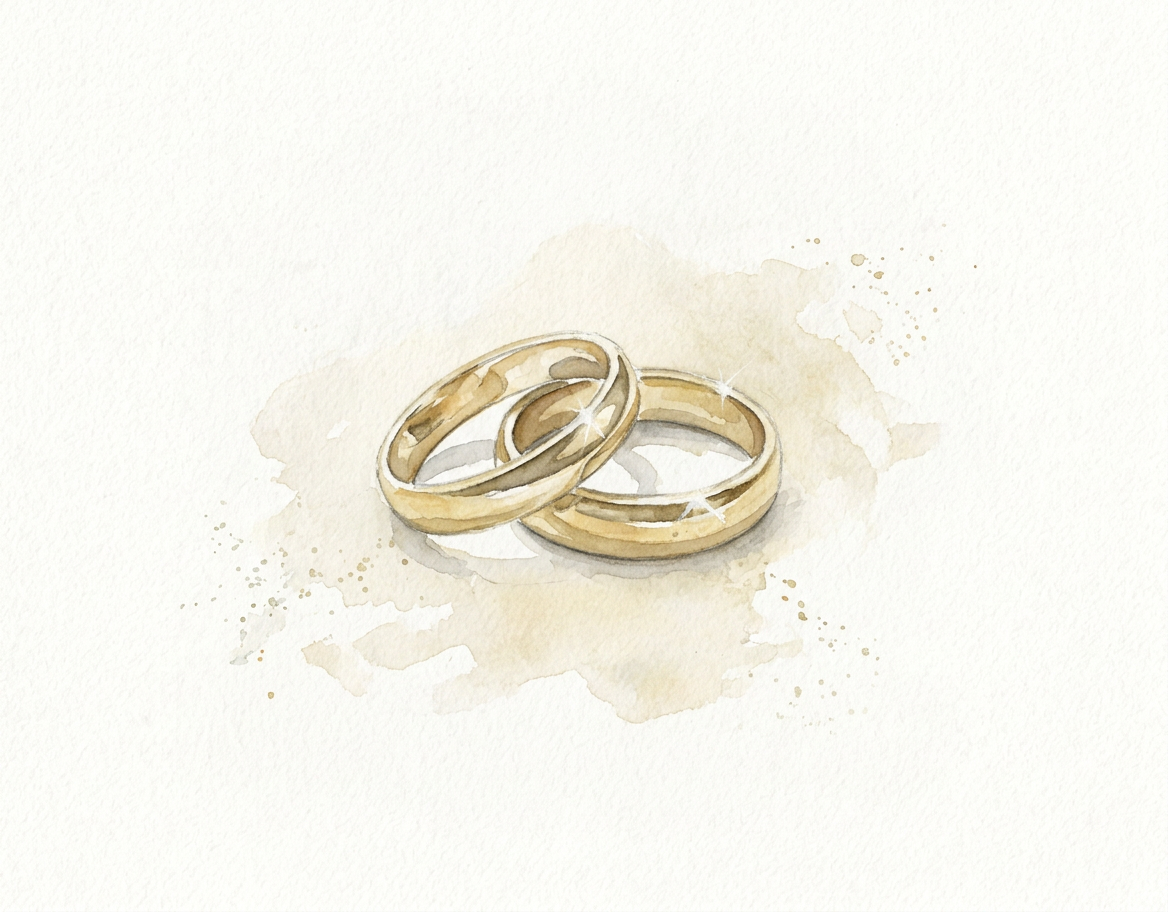
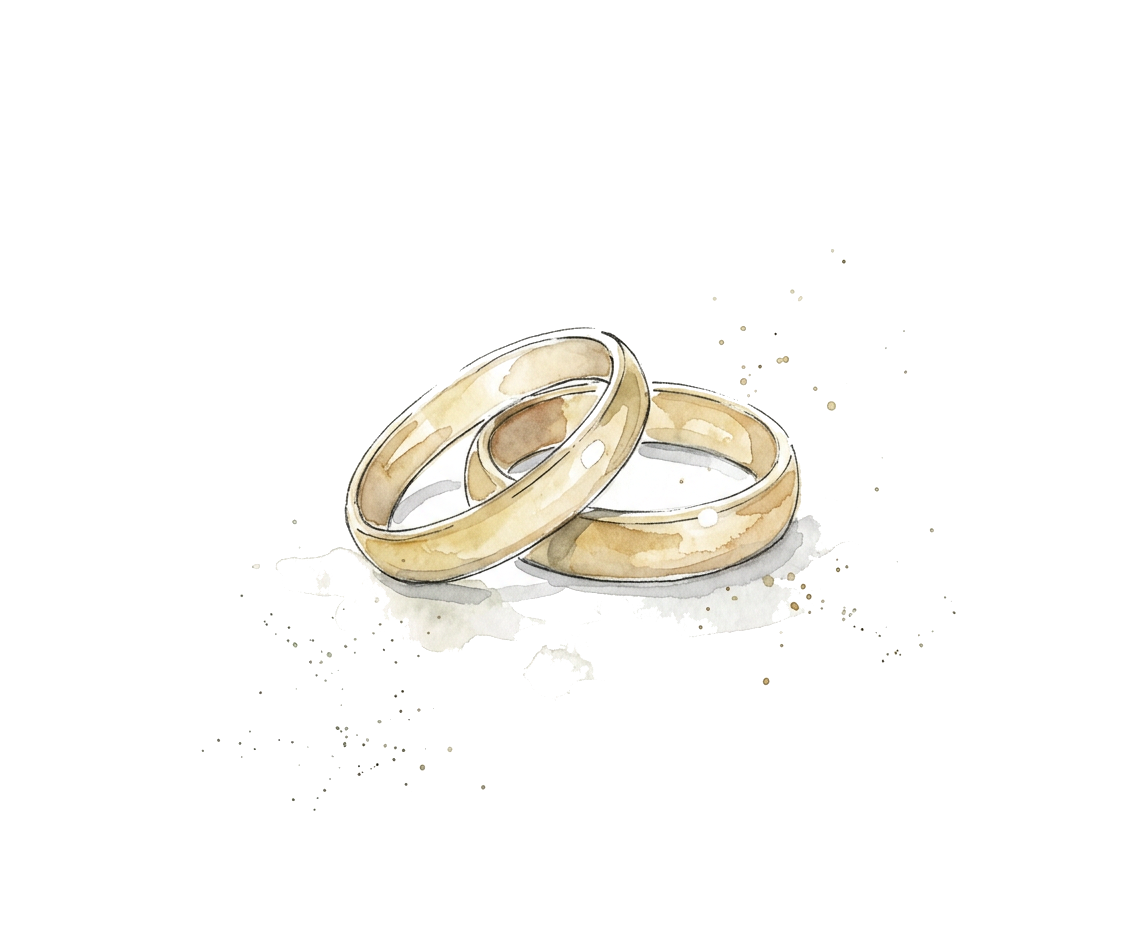
fix(Update):
Update itinerario

Changed region(s): [[0.1862, 0.2456, 0.8067, 0.7982]]

diff --git a/index.html b/index.html
@@ -209,12 +209,12 @@
       <span class="timeline__h">19:15</span>
       <!-- Iglesia o sillas -->
       <span class="timeline__t">Iglesia</span>
-      <img class="timeline__illo" src="img/programa/anillos.png" alt="" />
+      <img class="timeline__illo" src="img/programa/iglesia.png" alt="" />
     </li>
     <li>
       <span class="timeline__h">19:30</span>
       <span class="timeline__t">Ceremonia</span>
-      <img class="timeline__illo" src="img/programa/cocktail.png" alt="" />
+      <img class="timeline__illo" src="img/programa/anillos.png" alt="" />
     </li>
     <li>
       <span class="timeline__h">21:00</span>
@@ -224,17 +224,17 @@
     <li>
       <span class="timeline__h">23:00</span>
       <span class="timeline__t">Cena</span>
-      <img class="timeline__illo" src="img/programa/tarta.png" alt="" />
+      <img class="timeline__illo" src="img/programa/cena.png" alt="" />
     </li>
     <li>
       <span class="timeline__h">01:00</span>
       <span class="timeline__t">La fiesta</span>
-      <img class="timeline__illo" src="img/programa/baile.png" alt="" />
+      <img class="timeline__illo" src="img/programa/novios.png" alt="" />
     </li>
     <li>
       <span class="timeline__h">06:00</span>
       <span class="timeline__t">Recena</span>
-      <img class="timeline__illo" src="img/programa/vuelta.png" alt="" />
+      <img class="timeline__illo" src="img/programa/recena.png" alt="" />
     </li>
   </ul>
 </div>

diff --git a/styles.css b/styles.css
@@ -637,8 +637,10 @@ h1, h2, h3, h4 {
 .timeline__list li:nth-child(odd) .timeline__illo {
   grid-column: 1;
   grid-row: 1 / span 2;
-  justify-self: center;
+  justify-self: end;        /* era center */
+  margin-right: 34px;       /* separa del eje */
 }
+
 
 .timeline__list li:nth-child(odd) .timeline__h {
   grid-column: 2;
@@ -662,8 +664,10 @@ h1, h2, h3, h4 {
 .timeline__list li:nth-child(even) .timeline__illo {
   grid-column: 2;
   grid-row: 1 / span 2;
-  justify-self: center;
+  justify-self: start;      /* era center */
+  margin-left: 34px;
 }
+
 
 .timeline__list li:nth-child(even) .timeline__h {
   grid-column: 1;
@@ -703,8 +707,8 @@ h1, h2, h3, h4 {
 
 /* ---- la acuarela ---- */
 .timeline__illo {
-  width: 132px;
-  height: 132px;
+  width: 190px;
+  height: 190px;
   object-fit: contain;
   -webkit-mask-image:
     linear-gradient(to right, transparent 0%, #000 14%, #000 86%, transparent 100%),
